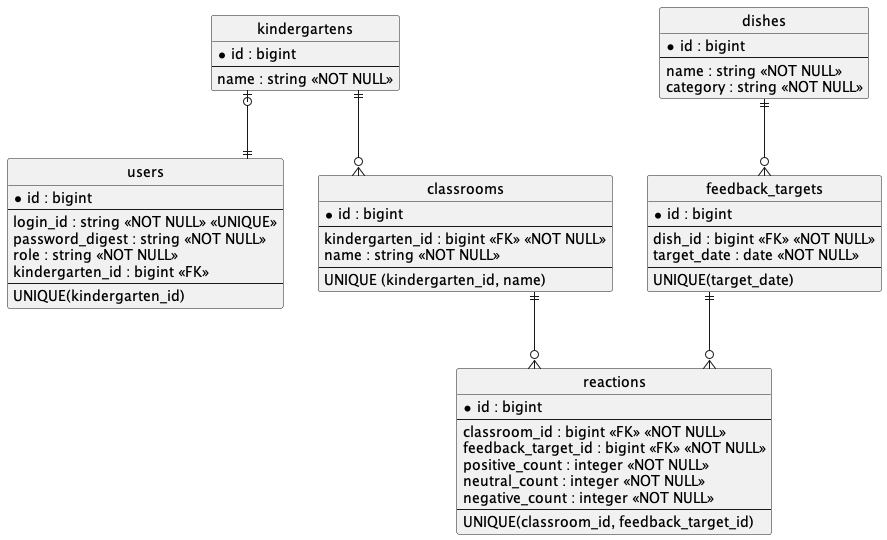
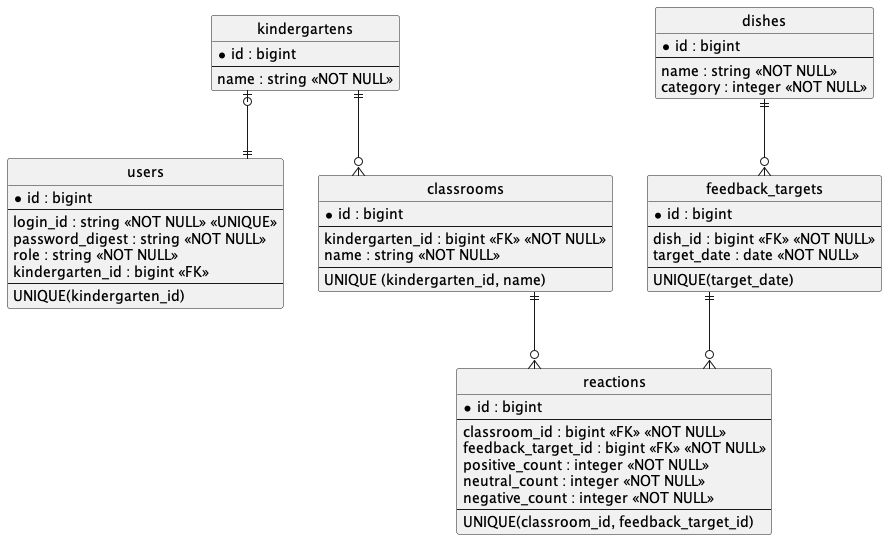
docs: 料理分類をenumで管理する設計へ更新

Changed region(s): [[0.7306, 0.0593, 1.0, 0.1778]]

diff --git a/README.md b/README.md
@@ -323,6 +323,7 @@ MVPではこの循環の最小構成として、
   * 新規登録のみ
   * 編集機能は作らない
   * 料理分類は事前に用意された選択肢から選ぶ
+  * 料理分類をenumで管理する
   * 料理分類CRUDは作らない
 
 * 対象料理の設定について
